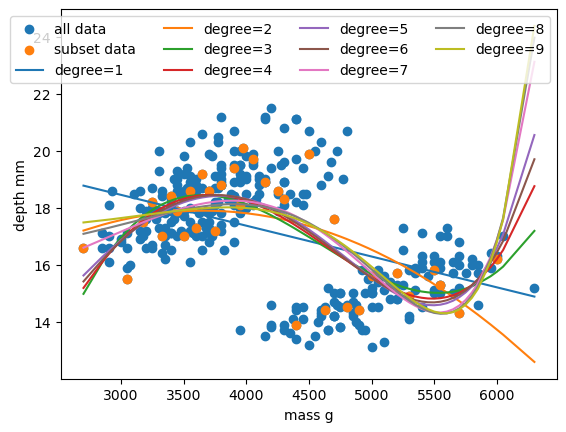
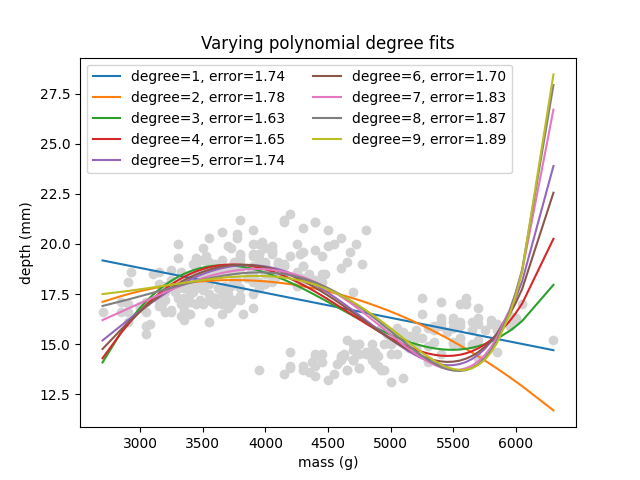
Tweaks to the exercises and included spline explanation and figure. Added content on using Notebooks.

Changed region(s): [[0.03, 0.0301, 0.9912, 0.9931], [0.9011, 0.7824, 0.9611, 0.8426], [0.871, 0.7523, 0.9011, 0.7824]]

diff --git a/episodes/02-regression.md b/episodes/02-regression.md
@@ -22,6 +22,15 @@ exercises: 30
 
 ::::::::::::::::::::::::::::::::::::::::::::::::::
 
+:::::callout
+### Getting Started
+
+If you are using Jupyter Notebooks, the best way to work is to create a new notebook for each episode.
+
+If you aren't using Notebooks, you can either create a new `.py` file for each episode and run it from the terminal, 
+or write your commands in the Python interpreter.
+::::::::::::
+
 ## Supervised learning
 
 Classical machine learning is often divided into two categories – supervised and unsupervised learning.
@@ -101,7 +110,7 @@ The mathematical equation for a linear fit is `y = mx + c` where `y` is our labe
 
 A typical ML workflow is as following:
 
-- Decide on a model to use model (also known as an estimator)
+- Decide on a model that you think will be a good representation of your data (otherwise known as an estimator)
 - Tweak your data into the required format for your model
 - Define and train your model on the input data
 - Predict some values using the trained model
@@ -301,6 +310,10 @@ plt.show()
 
 Adjust the `degree=3` input variable for the `PolynomialFeatures` function to change the degree of polynomial fit. Can you improve the RMSE of your model?
 
+**Hints:** 
+* You can set the colour of the markers with the `color=lightgrey` argument to aid in readability.
+*  You can use [f-strings](https://fstring.help/cheat/) to include variables in strings, and easily change the number of decimal places displayed, e.g. `f"error = {my_variable:.2f}"`.
+
 :::::::::::::::  solution
 
 ### Solution
@@ -309,8 +322,7 @@ Let's plot all the fitted polynomials of degree one to nine, alongside the data 
 
 ```python
 #plot the data
-plt.scatter(x_data, y_data, label="all data")
-plt.scatter(x_data_subset, y_data_subset, label="subset data")
+plt.scatter(x_data, y_data, color='lightgrey')
 
 #name a variable 'best' to store the best RMSE we find.
 best = np.inf
@@ -328,24 +340,24 @@ for degree in range(1,10):
     poly_data = poly_regress.predict(x_poly_all)
     
     poly_error = root_mean_squared_error(y_data, poly_data)
-    print("degree=",degree,"; poly error=", poly_error)
+    print(f"degree={degree}, error={poly_error}")
 
     #find best degree polynomial
     if poly_error < best:
         best = poly_error
         #create a variable called degree to store the best polynomial degree.
         best_degree = degree
-    plt.plot(x_data, poly_data, "-", label="poly fit, degree="+str(degree))
+    plt.plot(x_data, poly_data, "-", label=f"degree={degree}, error={poly_error:.2f}")
 
 #print our best degree polynomial
-print("Best degree was",best_degree,"with poly error=",best)
-plt.xlabel("mass g")
-plt.ylabel("depth mm")
-plt.legend(ncol=4)
+print(f"Best degree was {best_degree}, with poly error={best:.2f}")
+plt.title("Varying polynomial degree fits")
+plt.xlabel("mass (g)")
+plt.ylabel("depth (mm)")
+plt.legend(ncol=2)
 plt.show()
 ```
 ![](fig/polynomial_comparison.png){alt='Comparison of several polynomial fits to the data.'}
-
 
 
 :::::::::::::::::::::::::
@@ -356,7 +368,7 @@ plt.show()
 
 ### Exercise: Now try using the SplineTransformer to create a spline model
 
-The SplineTransformer is another pre-processing function that behaves in a similar way to the PolynomialFeatures function. Import the package `sklearn.preprocessing.SplinTransformer` and adjust your
+The SplineTransformer is another pre-processing function that behaves in a similar way to the PolynomialFeatures function. Import the package `sklearn.preprocessing.SplineTransformer` and adjust your
 previous code to use the SplineTransformer. Can you improve the RMSE of your model by varying the `knots` and `degree` functions? Is the spline model better than the polynomial model?
 
 :::::::::::::::  solution
@@ -367,8 +379,7 @@ previous code to use the SplineTransformer. Can you improve the RMSE of your mod
 from sklearn.preprocessing import SplineTransformer
 
 #plot the data
-plt.scatter(x_data, y_data, label="all data")
-plt.scatter(x_data_subset, y_data_subset, label="subset data")
+plt.scatter(x_data, y_data, color='lightgrey')
 
 #name a variable 'best' to store the best RMSE we find.
 best = np.inf
@@ -387,7 +398,7 @@ for knot in range(2,5):
         spline_data = spline_regress.predict(x_spline_all)
         
         spline_error = root_mean_squared_error(y_data, spline_data)
-        print("degree=",degree,"; slpine error=", spline_error)
+        print(f"degree={degree}, knot={knot}, error={spline_error:.2f}")
     
         #find best degree polynomial
         if spline_error < best:
@@ -395,22 +406,44 @@ for knot in range(2,5):
             #create a variable called degree to store the best polynomial degree.
             best_degree = degree
             best_knot = knot
-        plt.plot(x_data, spline_data, "-", label="spline fit, degree="+str(degree)+" knot="+str(knot))
+        plt.plot(x_data, spline_data, "-", label=f"deg={degree}, knot={knot}, err={spline_error:.2f}")
 
 #print our best degree polynomial
-print("Best degree/knot was",best_degree,best_knot,"with poly error=",best)
-plt.xlabel("mass g")
-plt.ylabel("depth mm")
-plt.legend(ncol=4)
+print(f"Best degree/knot was {best_degree}, {best_knot}, with poly error={best:.2f}")
+plt.title("Varying spline fits")
+plt.xlabel("mass (g)")
+plt.ylabel("depth (mm)")
+plt.legend(ncol=2)
 plt.show()
 ```
 
-The above line replaces the `PolynomialFeatures` function. It takes in an additional argument `knots` compared to `PolynomialFeatures`. It's best performance is comparable to that of the `PolynomialFeatures` in this example (error of 1.613 fo SplineTransformer and 1.604 for PolynomialFeatures).
+The above line replaces the `PolynomialFeatures` function. 
+It takes in an additional argument `knots` compared to `PolynomialFeatures`. 
+The best performance is comparable to that of the `PolynomialFeatures` in this example (error of 1.613 for `SplineTransformer` and 1.604 for `PolynomialFeatures`).
 
+If we reduce the degrees and knots (e.g. knots from 2-4 and degrees from 1-4), we can clearly see that `knots=2` gives the same result as the polynomial model. 
+The spline model splits the range up into seperate polynomials between a number of knots.
+More advanced spline fitters will try to ensure that the derivatives of the polynomials match at the knots.
+
+![](fig/spline_comparison.png){alt='Comparison of several spline fits to the data.'}
 
 :::::::::::::::::::::::::
 
 ::::::::::::::::::::::::::::::::::::::::::::::::::
+
+
+:::::callout
+### A Note on Notebooks
+
+If you used a Jupyter Notebook, you might have noticed how convenient it is. 
+However, it is important to not *just* use Notebooks for your work. 
+Notebooks are best used for prototyping and exploration.
+When you have developed functions you will reuse, those should be moved into `.py` files, and imported into newer notebooks.
+
+You also need to make sure you re-run a notebook from the start every now and then.
+As you can run cells out of order, it is possible to change an early line and forget to re-run later analysis,
+so your results end up inconsistent.
+::::::::::::
 
 
 
